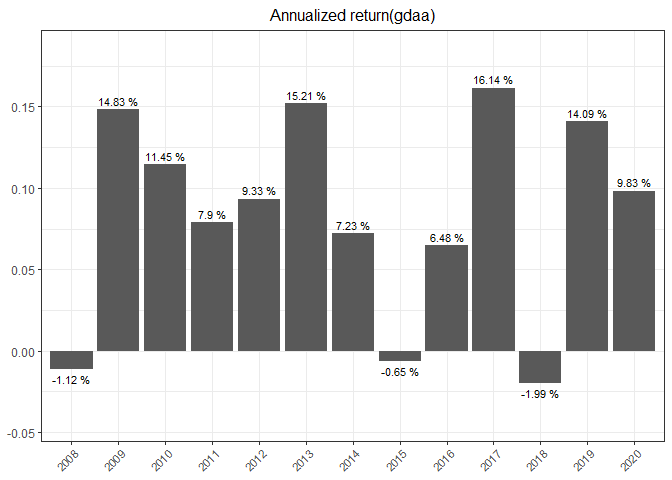
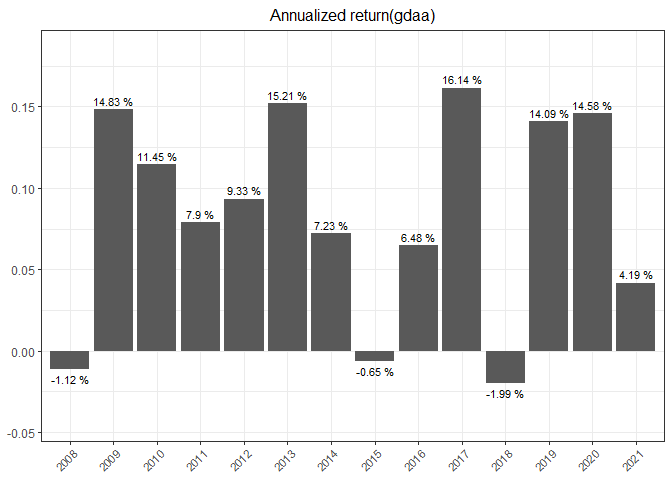
updates

diff --git a/all_weather.md b/all_weather.md
@@ -84,7 +84,7 @@ names(Port_all_net) = 'Returns_allweather'
 
 |             | Cummulative\_return | Annualized\_return | Max\_drawdown | Annualized\_std |
 | ----------- | ------------------: | -----------------: | ------------: | --------------: |
-| All Weather |            1.568736 |          0.0774485 |     0.1448201 |       0.0759644 |
+| All Weather |            1.617357 |           0.076683 |     0.1448201 |         0.07593 |
 
 Table1: Summarization(All weather
 
@@ -215,44 +215,44 @@ names(Port_gdaa_net) = 'Returns_gdaa'
 
 ### Dynamics of weights
 
-|            |       QQQ |       IEV |       EWJ |     EEM |       TLT | IEF |       IYR |       RWX |       GLD |       DBC |
-| ---------- | --------: | --------: | --------: | ------: | --------: | --: | --------: | --------: | --------: | --------: |
-| 2017-09-29 | 0.1486668 | 0.1809961 | 0.3000000 | 0.10000 | 0.0000000 | 0.0 | 0.0000000 | 0.2703371 | 0.0000000 | 0.0000000 |
-| 2017-10-31 | 0.1666574 | 0.2000438 | 0.3000000 | 0.10000 | 0.0000000 | 0.0 | 0.0000000 | 0.0000000 | 0.0000000 | 0.2332987 |
-| 2017-11-30 | 0.1589130 | 0.1964485 | 0.3000000 | 0.10000 | 0.0000000 | 0.0 | 0.0000000 | 0.0000000 | 0.0000000 | 0.2446385 |
-| 2017-12-29 | 0.1452439 | 0.2279022 | 0.3000000 | 0.10000 | 0.0000000 | 0.0 | 0.0000000 | 0.0000000 | 0.0000000 | 0.2268539 |
-| 2018-01-31 | 0.1131743 | 0.2452578 | 0.3000000 | 0.10000 | 0.0000000 | 0.0 | 0.0000000 | 0.0000000 | 0.0000000 | 0.2415679 |
-| 2018-02-28 | 0.1000000 | 0.2106364 | 0.2893636 | 0.10000 | 0.0000000 | 0.0 | 0.0000000 | 0.0000000 | 0.0000000 | 0.3000000 |
-| 2018-03-29 | 0.1000000 | 0.0000000 | 0.2000000 | 0.10000 | 0.0000000 | 0.0 | 0.0000000 | 0.3000000 | 0.0000000 | 0.3000000 |
-| 2018-04-30 | 0.1000000 | 0.0000000 | 0.2000000 | 0.10000 | 0.0000000 | 0.0 | 0.0000000 | 0.3000000 | 0.0000000 | 0.3000000 |
-| 2018-05-31 | 0.1000000 | 0.0000000 | 0.2000000 | 0.10000 | 0.0000000 | 0.0 | 0.0000000 | 0.3000000 | 0.0000000 | 0.3000000 |
-| 2018-06-29 | 0.1000000 | 0.0000000 | 0.1000000 | 0.00000 | 0.0000000 | 0.0 | 0.2093497 | 0.2906503 | 0.0000000 | 0.3000000 |
-| 2018-07-31 | 0.1000000 | 0.1000000 | 0.0000000 | 0.00000 | 0.0000000 | 0.0 | 0.2531757 | 0.2468243 | 0.0000000 | 0.3000000 |
-| 2018-08-31 | 0.1000000 | 0.0000000 | 0.0000000 | 0.00000 | 0.3000000 | 0.0 | 0.1131126 | 0.2454792 | 0.0000000 | 0.2414082 |
-| 2018-09-28 | 0.1000000 | 0.0000000 | 0.1000000 | 0.00000 | 0.0000000 | 0.3 | 0.2200583 | 0.0000000 | 0.0000000 | 0.2799417 |
-| 2018-10-31 | 0.1000000 | 0.0000000 | 0.0000000 | 0.00000 | 0.0000000 | 0.3 | 0.1603287 | 0.0000000 | 0.3000000 | 0.1396713 |
-| 2018-11-30 | 0.1000000 | 0.0000000 | 0.0000000 | 0.00000 | 0.2085015 | 0.3 | 0.1000000 | 0.0000000 | 0.2914985 | 0.0000000 |
-| 2018-12-31 | 0.0000000 | 0.0000000 | 0.0000000 | 0.00000 | 0.2027647 | 0.3 | 0.1000000 | 0.1372327 | 0.2600026 | 0.0000000 |
-| 2019-01-31 | 0.0000000 | 0.0000000 | 0.0000000 | 0.00000 | 0.2083378 | 0.3 | 0.1000000 | 0.1447301 | 0.2469321 | 0.0000000 |
-| 2019-02-28 | 0.0000000 | 0.0000000 | 0.0000000 | 0.00000 | 0.2006484 | 0.3 | 0.1000000 | 0.2024418 | 0.1969098 | 0.0000000 |
-| 2019-03-29 | 0.1000000 | 0.0000000 | 0.0000000 | 0.00000 | 0.3000000 | 0.3 | 0.1000000 | 0.2000000 | 0.0000000 | 0.0000000 |
-| 2019-04-30 | 0.1000000 | 0.0000000 | 0.0000000 | 0.11161 | 0.3000000 | 0.3 | 0.1883900 | 0.0000000 | 0.0000000 | 0.0000000 |
-| 2019-05-31 | 0.0000000 | 0.0000000 | 0.0000000 | 0.00000 | 0.2172960 | 0.3 | 0.1000000 | 0.2200062 | 0.1626979 | 0.0000000 |
-| 2019-06-28 | 0.1101339 | 0.0000000 | 0.0000000 | 0.00000 | 0.2651487 | 0.3 | 0.1000000 | 0.0000000 | 0.2247175 | 0.0000000 |
-| 2019-07-31 | 0.1192643 | 0.0000000 | 0.0000000 | 0.00000 | 0.3000000 | 0.3 | 0.1000000 | 0.0000000 | 0.1807357 | 0.0000000 |
-| 2019-08-30 | 0.1369434 | 0.0000000 | 0.0000000 | 0.00000 | 0.2766808 | 0.3 | 0.1007327 | 0.0000000 | 0.1856431 | 0.0000000 |
-| 2019-09-30 | 0.1500563 | 0.0000000 | 0.0000000 | 0.00000 | 0.2610118 | 0.3 | 0.1066329 | 0.0000000 | 0.1822990 | 0.0000000 |
-| 2019-10-31 | 0.1000000 | 0.0000000 | 0.0000000 | 0.00000 | 0.3000000 | 0.0 | 0.1000000 | 0.3000000 | 0.2000000 | 0.0000000 |
-| 2019-11-29 | 0.1000000 | 0.0000000 | 0.2533260 | 0.00000 | 0.3000000 | 0.0 | 0.1000000 | 0.0000000 | 0.2466740 | 0.0000000 |
-| 2019-12-31 | 0.1000000 | 0.1000000 | 0.2448795 | 0.00000 | 0.0000000 | 0.0 | 0.2551205 | 0.0000000 | 0.3000000 | 0.0000000 |
-| 2020-01-31 | 0.1110608 | 0.3000000 | 0.0000000 | 0.00000 | 0.3000000 | 0.0 | 0.1000000 | 0.0000000 | 0.1889392 | 0.0000000 |
-| 2020-02-28 | 0.2465705 | 0.0000000 | 0.0000000 | 0.00000 | 0.2029620 | 0.3 | 0.1000000 | 0.0000000 | 0.1504675 | 0.0000000 |
-| 2020-03-31 | 0.1000000 | 0.0000000 | 0.2028034 | 0.00000 | 0.2139735 | 0.3 | 0.0000000 | 0.0000000 | 0.1832231 | 0.0000000 |
-| 2020-04-30 | 0.1000000 | 0.0000000 | 0.1846297 | 0.00000 | 0.2352366 | 0.3 | 0.0000000 | 0.0000000 | 0.1801336 | 0.0000000 |
-| 2020-05-29 | 0.1003343 | 0.0000000 | 0.1901937 | 0.00000 | 0.2362482 | 0.3 | 0.0000000 | 0.0000000 | 0.1732238 | 0.0000000 |
-| 2020-06-30 | 0.1380670 | 0.0000000 | 0.0000000 | 0.10000 | 0.2564659 | 0.3 | 0.0000000 | 0.0000000 | 0.2054671 | 0.0000000 |
-| 2020-07-31 | 0.1307710 | 0.0000000 | 0.0000000 | 0.10000 | 0.2524701 | 0.3 | 0.0000000 | 0.0000000 | 0.2167589 | 0.0000000 |
-| 2020-08-31 | 0.1000000 | 0.0000000 | 0.2000000 | 0.10000 | 0.3000000 | 0.0 | 0.0000000 | 0.0000000 | 0.3000000 | 0.0000000 |
+|            |       QQQ |       IEV |       EWJ |       EEM |       TLT | IEF |       IYR |       RWX |       GLD |       DBC |
+| ---------- | --------: | --------: | --------: | --------: | --------: | --: | --------: | --------: | --------: | --------: |
+| 2018-02-28 | 0.1000000 | 0.2106387 | 0.2893613 | 0.1000000 | 0.0000000 | 0.0 | 0.0000000 | 0.0000000 | 0.0000000 | 0.3000000 |
+| 2018-03-29 | 0.1000000 | 0.0000000 | 0.2000000 | 0.1000000 | 0.0000000 | 0.0 | 0.0000000 | 0.3000000 | 0.0000000 | 0.3000000 |
+| 2018-04-30 | 0.1000000 | 0.0000000 | 0.2000000 | 0.1000000 | 0.0000000 | 0.0 | 0.0000000 | 0.3000000 | 0.0000000 | 0.3000000 |
+| 2018-05-31 | 0.1000000 | 0.0000000 | 0.2000000 | 0.1000000 | 0.0000000 | 0.0 | 0.0000000 | 0.3000000 | 0.0000000 | 0.3000000 |
+| 2018-06-29 | 0.1000000 | 0.0000000 | 0.1000000 | 0.0000000 | 0.0000000 | 0.0 | 0.2093452 | 0.2906548 | 0.0000000 | 0.3000000 |
+| 2018-07-31 | 0.1000000 | 0.1000000 | 0.0000000 | 0.0000000 | 0.0000000 | 0.0 | 0.2531713 | 0.2468287 | 0.0000000 | 0.3000000 |
+| 2018-08-31 | 0.1000000 | 0.0000000 | 0.0000000 | 0.0000000 | 0.3000000 | 0.0 | 0.1131106 | 0.2454821 | 0.0000000 | 0.2414073 |
+| 2018-09-28 | 0.1000000 | 0.0000000 | 0.1000000 | 0.0000000 | 0.0000000 | 0.3 | 0.2200584 | 0.0000000 | 0.0000000 | 0.2799416 |
+| 2018-10-31 | 0.1000000 | 0.0000000 | 0.0000000 | 0.0000000 | 0.0000000 | 0.3 | 0.1603286 | 0.0000000 | 0.3000000 | 0.1396714 |
+| 2018-11-30 | 0.1000000 | 0.0000000 | 0.0000000 | 0.0000000 | 0.2085009 | 0.3 | 0.1000000 | 0.0000000 | 0.2914991 | 0.0000000 |
+| 2018-12-31 | 0.0000000 | 0.0000000 | 0.0000000 | 0.0000000 | 0.2027635 | 0.3 | 0.1000000 | 0.1372325 | 0.2600040 | 0.0000000 |
+| 2019-01-31 | 0.0000000 | 0.0000000 | 0.0000000 | 0.0000000 | 0.2083364 | 0.3 | 0.1000000 | 0.1447297 | 0.2469339 | 0.0000000 |
+| 2019-02-28 | 0.0000000 | 0.0000000 | 0.0000000 | 0.0000000 | 0.2006469 | 0.3 | 0.1000000 | 0.2024411 | 0.1969119 | 0.0000000 |
+| 2019-03-29 | 0.1000000 | 0.0000000 | 0.0000000 | 0.0000000 | 0.3000000 | 0.3 | 0.1000000 | 0.2000000 | 0.0000000 | 0.0000000 |
+| 2019-04-30 | 0.1000000 | 0.0000000 | 0.0000000 | 0.1116096 | 0.3000000 | 0.3 | 0.1883904 | 0.0000000 | 0.0000000 | 0.0000000 |
+| 2019-05-31 | 0.0000000 | 0.0000000 | 0.0000000 | 0.0000000 | 0.2172947 | 0.3 | 0.1000000 | 0.2200055 | 0.1626998 | 0.0000000 |
+| 2019-06-28 | 0.1101337 | 0.0000000 | 0.0000000 | 0.0000000 | 0.2651473 | 0.3 | 0.1000000 | 0.0000000 | 0.2247190 | 0.0000000 |
+| 2019-07-31 | 0.1192641 | 0.0000000 | 0.0000000 | 0.0000000 | 0.3000000 | 0.3 | 0.1000000 | 0.0000000 | 0.1807359 | 0.0000000 |
+| 2019-08-30 | 0.1369427 | 0.0000000 | 0.0000000 | 0.0000000 | 0.2766771 | 0.3 | 0.1007342 | 0.0000000 | 0.1856461 | 0.0000000 |
+| 2019-09-30 | 0.1500557 | 0.0000000 | 0.0000000 | 0.0000000 | 0.2610092 | 0.3 | 0.1066340 | 0.0000000 | 0.1823010 | 0.0000000 |
+| 2019-10-31 | 0.1000000 | 0.0000000 | 0.0000000 | 0.0000000 | 0.3000000 | 0.0 | 0.1000000 | 0.3000000 | 0.2000000 | 0.0000000 |
+| 2019-11-29 | 0.1000000 | 0.0000000 | 0.2533259 | 0.0000000 | 0.3000000 | 0.0 | 0.1000000 | 0.0000000 | 0.2466741 | 0.0000000 |
+| 2019-12-31 | 0.1000000 | 0.1000000 | 0.2448793 | 0.0000000 | 0.0000000 | 0.0 | 0.2551207 | 0.0000000 | 0.3000000 | 0.0000000 |
+| 2020-01-31 | 0.1110605 | 0.3000000 | 0.0000000 | 0.0000000 | 0.3000000 | 0.0 | 0.1000000 | 0.0000000 | 0.1889395 | 0.0000000 |
+| 2020-02-28 | 0.2465704 | 0.0000000 | 0.0000000 | 0.0000000 | 0.2029599 | 0.3 | 0.1000000 | 0.0000000 | 0.1504696 | 0.0000000 |
+| 2020-03-31 | 0.1000000 | 0.0000000 | 0.2028028 | 0.0000000 | 0.2139725 | 0.3 | 0.0000000 | 0.0000000 | 0.1832247 | 0.0000000 |
+| 2020-04-30 | 0.1000000 | 0.0000000 | 0.1846293 | 0.0000000 | 0.2352358 | 0.3 | 0.0000000 | 0.0000000 | 0.1801349 | 0.0000000 |
+| 2020-05-29 | 0.1003342 | 0.0000000 | 0.1901933 | 0.0000000 | 0.2362474 | 0.3 | 0.0000000 | 0.0000000 | 0.1732251 | 0.0000000 |
+| 2020-06-30 | 0.1380667 | 0.0000000 | 0.0000000 | 0.1000000 | 0.2564651 | 0.3 | 0.0000000 | 0.0000000 | 0.2054682 | 0.0000000 |
+| 2020-07-31 | 0.1307707 | 0.0000000 | 0.0000000 | 0.1000000 | 0.2524695 | 0.3 | 0.0000000 | 0.0000000 | 0.2167598 | 0.0000000 |
+| 2020-08-31 | 0.1000000 | 0.0000000 | 0.2000000 | 0.1000000 | 0.3000000 | 0.0 | 0.0000000 | 0.0000000 | 0.3000000 | 0.0000000 |
+| 2020-09-30 | 0.1000000 | 0.0000000 | 0.2000000 | 0.1000000 | 0.3000000 | 0.0 | 0.0000000 | 0.0000000 | 0.3000000 | 0.0000000 |
+| 2020-10-30 | 0.1000000 | 0.0000000 | 0.2000000 | 0.1000000 | 0.0000000 | 0.3 | 0.0000000 | 0.0000000 | 0.3000000 | 0.0000000 |
+| 2020-11-30 | 0.1583065 | 0.1000000 | 0.3000000 | 0.1416935 | 0.0000000 | 0.0 | 0.0000000 | 0.0000000 | 0.0000000 | 0.3000000 |
+| 2020-12-31 | 0.1689521 | 0.1000000 | 0.3000000 | 0.1310479 | 0.0000000 | 0.0 | 0.0000000 | 0.0000000 | 0.0000000 | 0.3000000 |
+| 2021-01-20 | 0.1650595 | 0.1000000 | 0.3000000 | 0.1349405 | 0.0000000 | 0.0 | 0.0000000 | 0.0000000 | 0.0000000 | 0.3000000 |
 
 Table2: Weights
 
@@ -260,7 +260,7 @@ Table2: Weights
 
 |      | Cummulative\_return | Annualized\_return | Max\_drawdown | Annualized\_std |
 | ---- | ------------------: | -----------------: | ------------: | --------------: |
-| GDAA |            1.782313 |          0.0865176 |     0.1926421 |        0.106168 |
+| GDAA |            2.024025 |          0.0904978 |     0.1926419 |       0.1059553 |
 
 Table3: Summarization(GDAA)
 
@@ -280,5 +280,5 @@ charts.PerformanceSummary(portfolios, main = 'All weather vs GDAA')
 
 |             | Annualized\_return | Cummulative\_return | Max\_drawdown | Annualized\_std |
 | ----------- | -----------------: | ------------------: | ------------: | --------------: |
-| All Weather |          0.0774485 |            1.568736 |     0.1448201 |       0.0759644 |
-| GDAA        |          0.0865176 |            1.782313 |     0.1926421 |       0.1061680 |
+| All Weather |          0.0766830 |            1.617357 |     0.1448201 |       0.0759300 |
+| GDAA        |          0.0904978 |            2.024025 |     0.1926419 |       0.1059553 |
